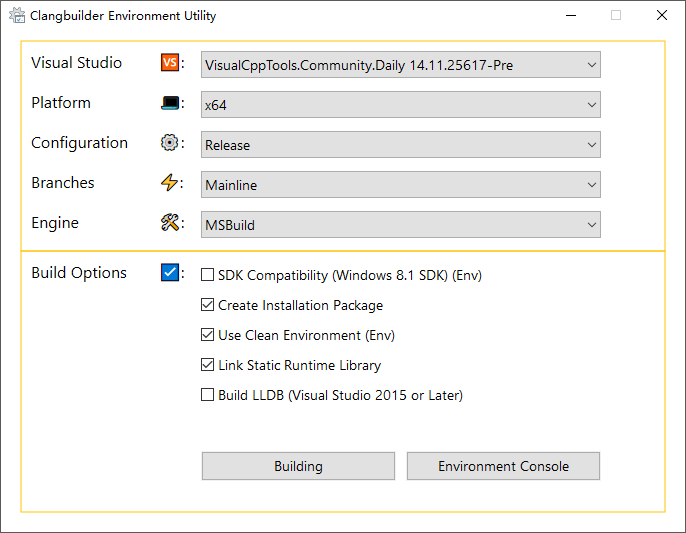
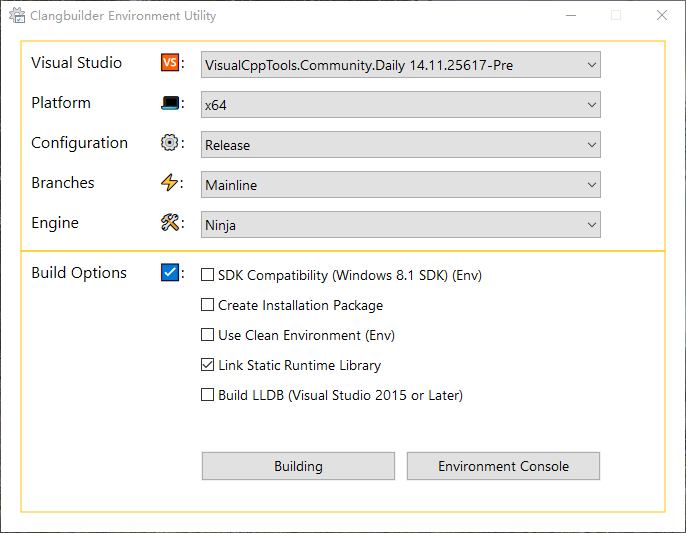
Daily tools not support msbuild

diff --git a/index.md b/index.md
@@ -56,6 +56,8 @@ You can run ClangbuilderUI, select Arch, Configuration and other options. after 
 
 ![visualcpptools](./images/visualcpptools.png)
 
+**VisualCppTools.Community.Daily** current not support msbuild (becasue cmake ...)
+
 **Branch**
 
 +  Mainline, master/trunk branch , git fetch from https://github.com/llvm-mirror/
